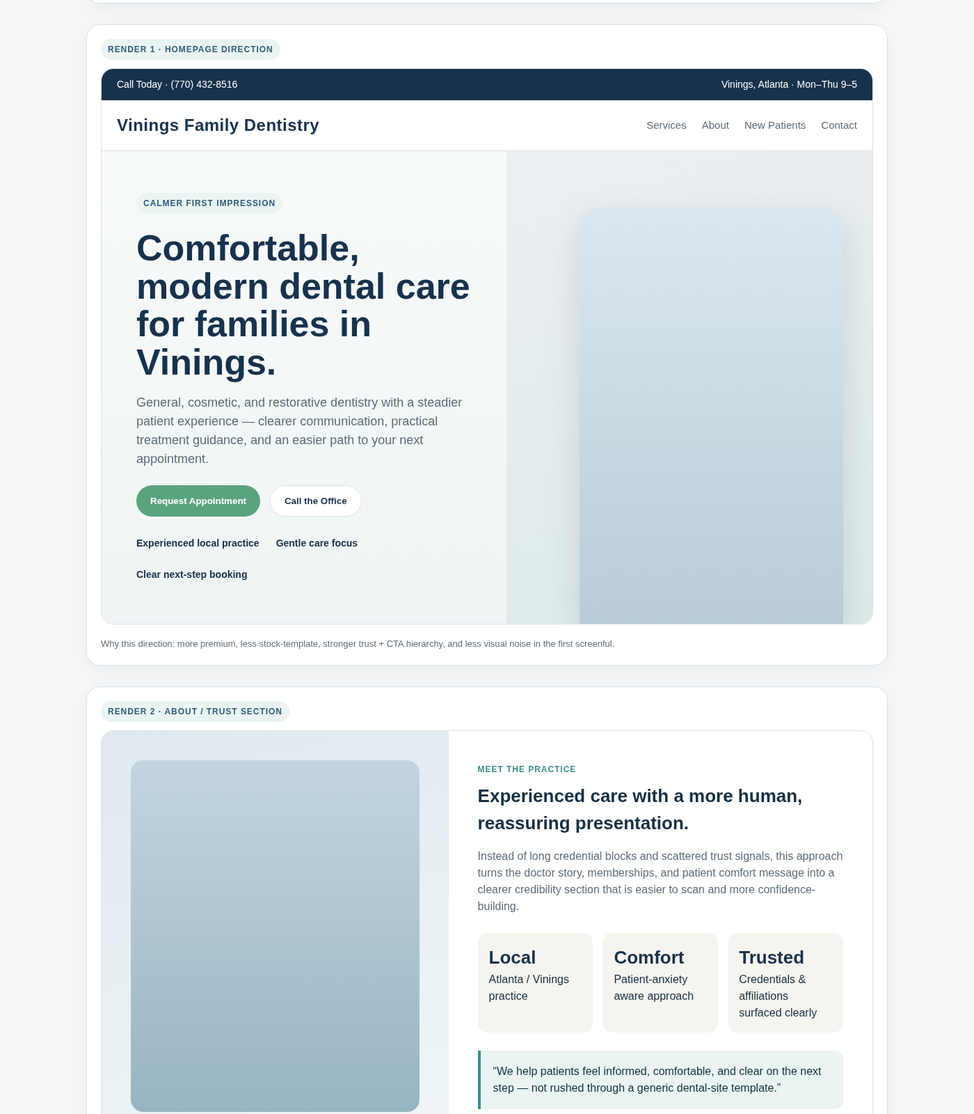
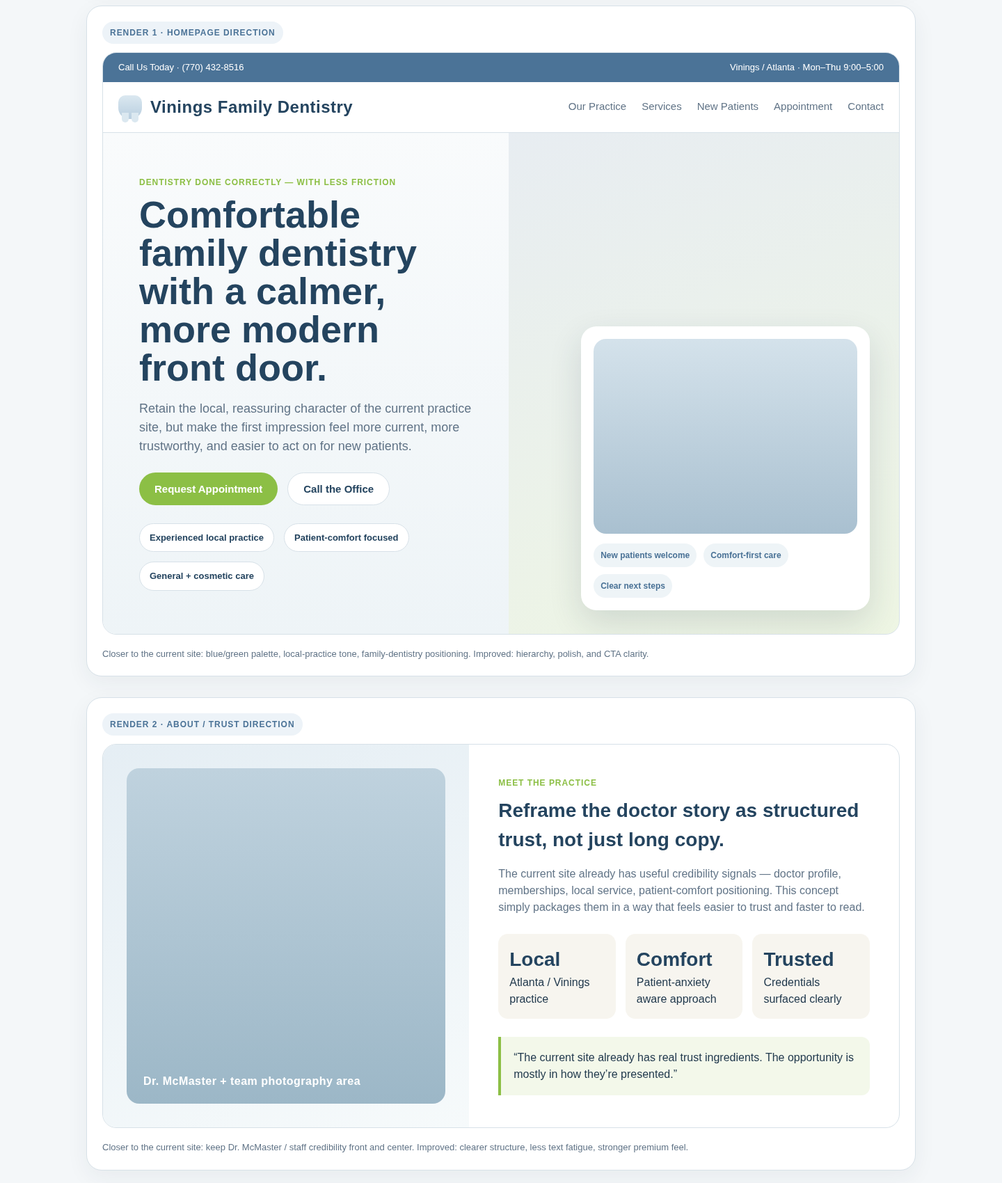
Refine Vinings concepts and add mini deck

Changed region(s): [[0.0921, 0.0, 0.9214, 1.0], [0.4607, 0.6562, 0.86, 1.0]]

diff --git a/prospect-captures/vinings-family-dentistry/recommendations-and-renders.html b/prospect-captures/vinings-family-dentistry/recommendations-and-renders.html
@@ -6,75 +6,90 @@
   <title>Vinings Family Dentistry — Suggested Updates</title>
   <style>
     :root {
-      --navy:#17324d;
-      --blue:#2f5d7c;
-      --teal:#3b8f8a;
-      --mint:#eaf4f2;
-      --sand:#f6f4ef;
-      --text:#163042;
-      --muted:#5d6c78;
-      --line:#d9e3e8;
-      --accent:#5aa37d;
+      --brand-navy:#24445f;
+      --brand-blue:#4b7397;
+      --brand-green:#8cbf45;
+      --brand-light:#eef4f7;
+      --brand-sand:#f7f5ef;
+      --text:#21394d;
+      --muted:#617487;
+      --line:#d7e1e8;
+      --white:#ffffff;
     }
     * { box-sizing:border-box; }
-    body { margin:0; font-family: Inter, Arial, sans-serif; color:var(--text); background:#f5f7f8; line-height:1.5; }
-    .wrap { max-width: 1200px; margin: 0 auto; padding: 40px 24px 80px; }
-    .intro { background:white; border:1px solid var(--line); border-radius:20px; padding:28px 32px; margin-bottom:28px; box-shadow:0 8px 30px rgba(0,0,0,.05); }
+    body { margin:0; font-family: Inter, Arial, sans-serif; color:var(--text); background:#f4f7f9; line-height:1.5; }
+    .wrap { max-width: 1240px; margin: 0 auto; padding: 40px 24px 80px; }
+    .intro, .render { background:var(--white); border:1px solid var(--line); border-radius:22px; box-shadow:0 10px 32px rgba(28,52,74,.06); }
+    .intro { padding:30px 34px; margin-bottom:28px; }
+    .render { padding:22px; margin:30px 0; }
     h1,h2,h3 { margin:0 0 12px; }
-    h1 { font-size:34px; }
-    h2 { font-size:26px; margin-top:10px; }
+    h1 { font-size:36px; color:var(--brand-navy); }
+    h2 { font-size:28px; color:var(--brand-navy); }
     p, li { color:var(--muted); }
-    .cards { display:grid; grid-template-columns: repeat(3, 1fr); gap:18px; margin-top:18px; }
-    .card { background:white; border:1px solid var(--line); border-radius:16px; padding:18px; }
-    .render { background:white; border:1px solid var(--line); border-radius:20px; padding:20px; margin:30px 0; box-shadow:0 8px 30px rgba(0,0,0,.05); }
-    .label { display:inline-block; font-size:12px; letter-spacing:.08em; text-transform:uppercase; color:var(--blue); font-weight:700; background:var(--mint); padding:6px 10px; border-radius:999px; margin-bottom:12px; }
-    .hero-mock { border:1px solid var(--line); border-radius:18px; overflow:hidden; background:white; }
-    .topbar { background:var(--navy); color:#fff; display:flex; justify-content:space-between; padding:12px 22px; font-size:14px; }
+    .pill { display:inline-block; font-size:12px; letter-spacing:.08em; text-transform:uppercase; color:var(--brand-blue); font-weight:800; background:#edf3f8; padding:7px 11px; border-radius:999px; margin-bottom:12px; }
+    .cards { display:grid; grid-template-columns:repeat(3,1fr); gap:18px; margin-top:18px; }
+    .card { background:#fbfcfd; border:1px solid var(--line); border-radius:16px; padding:18px; }
+    .hero-mock, .about-mock, .appointment-mock { border:1px solid var(--line); border-radius:20px; overflow:hidden; background:var(--white); }
+    .topbar { background:var(--brand-blue); color:#fff; display:flex; justify-content:space-between; padding:11px 22px; font-size:13px; }
     .navbar { display:flex; justify-content:space-between; align-items:center; padding:18px 22px; border-bottom:1px solid var(--line); }
-    .brand { font-weight:800; letter-spacing:.02em; font-size:24px; color:var(--navy); }
+    .brand { display:flex; align-items:center; gap:12px; font-weight:800; letter-spacing:.02em; font-size:24px; color:var(--brand-navy); }
+    .tooth { width:34px; height:34px; border-radius:10px 10px 16px 16px; background:linear-gradient(180deg,#dbe8f0,#b8cedf); position:relative; }
+    .tooth:before, .tooth:after { content:''; position:absolute; bottom:-5px; width:10px; height:14px; background:#dbe8f0; border-radius:0 0 8px 8px; }
+    .tooth:before { left:5px; }
+    .tooth:after { right:5px; }
     .nav { display:flex; gap:22px; color:var(--muted); font-size:15px; }
-    .hero { display:grid; grid-template-columns: 1.05fr .95fr; min-height:460px; }
-    .hero-copy { padding:60px 50px; background:linear-gradient(180deg,#f7fafb,#eef5f4); }
-    .hero-copy h2 { font-size:52px; line-height:1.05; color:var(--navy); margin-bottom:16px; }
+    .hero { display:grid; grid-template-columns: 1.02fr .98fr; min-height:470px; }
+    .hero-copy { padding:62px 52px; background:linear-gradient(180deg,#f9fbfc,#eef4f7); }
+    .hero-copy h2 { font-size:54px; line-height:1.02; margin-bottom:16px; }
     .hero-copy p { font-size:18px; max-width:560px; }
-    .cta-row { display:flex; gap:14px; margin-top:24px; }
-    .btn { padding:14px 20px; border-radius:999px; border:0; font-weight:700; }
-    .btn.primary { background:var(--accent); color:white; }
-    .btn.secondary { background:white; color:var(--navy); border:1px solid var(--line); }
-    .proof { display:flex; gap:24px; margin-top:28px; font-size:14px; color:var(--navy); font-weight:600; flex-wrap:wrap; }
-    .hero-art { position:relative; background:linear-gradient(160deg, rgba(23,50,77,.08), rgba(59,143,138,.18)); }
-    .portrait { position:absolute; right:42px; bottom:0; width:72%; height:88%; border-radius:22px 22px 0 0; background:linear-gradient(180deg,#dbe7ee,#b9ccd8); box-shadow:0 18px 50px rgba(0,0,0,.12); }
-    .about-mock { border:1px solid var(--line); border-radius:18px; background:white; overflow:hidden; }
-    .section-grid { display:grid; grid-template-columns: .9fr 1.1fr; }
-    .photo-block { min-height:440px; background:linear-gradient(160deg,#dfe9ef,#f0f6f7); position:relative; }
-    .photo-block:after { content:''; position:absolute; inset:42px; border-radius:18px; background:linear-gradient(180deg,#c3d5df,#98b4c2); }
+    .eyebrow { color:var(--brand-green); font-weight:800; text-transform:uppercase; letter-spacing:.08em; font-size:12px; margin-bottom:10px; }
+    .cta-row { display:flex; gap:14px; margin-top:24px; flex-wrap:wrap; }
+    .btn { padding:14px 22px; border-radius:999px; border:0; font-weight:800; font-size:15px; }
+    .btn.primary { background:var(--brand-green); color:#fff; }
+    .btn.secondary { background:#fff; color:var(--brand-navy); border:1px solid var(--line); }
+    .proof { display:flex; gap:14px; margin-top:26px; flex-wrap:wrap; }
+    .proof span { background:#fff; border:1px solid var(--line); color:var(--brand-navy); padding:10px 14px; border-radius:999px; font-size:13px; font-weight:700; }
+    .hero-art { position:relative; background:linear-gradient(160deg, rgba(75,115,151,.13), rgba(140,191,69,.15)); }
+    .hero-card { position:absolute; right:42px; bottom:34px; width:74%; background:#fff; border-radius:22px; padding:18px; box-shadow:0 18px 48px rgba(28,52,74,.14); }
+    .hero-photo { height:280px; border-radius:18px; background:linear-gradient(180deg,#d4e2eb,#a9c0d0); margin-bottom:14px; }
+    .hero-badges { display:flex; gap:10px; flex-wrap:wrap; }
+    .hero-badges span { font-size:12px; background:#eef4f7; color:var(--brand-blue); padding:8px 10px; border-radius:999px; font-weight:700; }
+    .section-grid, .appt-grid { display:grid; grid-template-columns: .92fr 1.08fr; }
+    .photo-block { min-height:460px; background:linear-gradient(160deg,#e5eef4,#f6fafb); position:relative; }
+    .photo-block:before { content:''; position:absolute; inset:34px; border-radius:18px; background:linear-gradient(180deg,#bfd2de,#9cb7c7); }
+    .photo-block:after { content:'Dr. McMaster + team photography area'; position:absolute; left:58px; bottom:54px; color:#fff; font-weight:700; letter-spacing:.03em; }
     .content-block { padding:46px 42px; }
-    .kicker { color:var(--teal); font-weight:800; letter-spacing:.08em; text-transform:uppercase; font-size:12px; }
     .stat-row { display:grid; grid-template-columns:repeat(3,1fr); gap:14px; margin:26px 0; }
-    .stat { background:var(--sand); border-radius:14px; padding:16px; }
-    .stat strong { display:block; color:var(--navy); font-size:26px; }
-    .quote { margin-top:18px; padding:18px; border-left:4px solid var(--teal); background:var(--mint); border-radius:0 12px 12px 0; color:var(--text); }
-    .appointment-mock { border:1px solid var(--line); border-radius:18px; overflow:hidden; background:white; }
-    .appt-grid { display:grid; grid-template-columns: .92fr 1.08fr; }
-    .appt-copy { background:var(--navy); color:white; padding:42px; }
+    .stat { background:var(--brand-sand); border-radius:14px; padding:16px; }
+    .stat strong { display:block; color:var(--brand-navy); font-size:28px; }
+    .quote { margin-top:18px; padding:18px; border-left:4px solid var(--brand-green); background:#f3f8ea; border-radius:0 12px 12px 0; color:var(--text); }
+    .appt-copy { background:var(--brand-navy); color:#fff; padding:42px; }
     .appt-copy p { color:rgba(255,255,255,.82); }
-    .check { margin:20px 0 0; padding:0; list-style:none; }
-    .check li { color:white; margin:10px 0; }
+    .check { list-style:none; margin:20px 0 0; padding:0; }
+    .check li { color:#fff; margin:10px 0; }
     .form { padding:30px; background:#fbfcfd; }
     .field { margin-bottom:14px; }
-    .field label { display:block; font-size:13px; color:var(--navy); font-weight:700; margin-bottom:6px; }
-    .field input, .field select, .field textarea { width:100%; padding:14px 14px; border:1px solid #cfd9df; border-radius:12px; background:white; font:inherit; }
+    .field label { display:block; font-size:13px; color:var(--brand-navy); font-weight:800; margin-bottom:6px; }
+    .field input, .field select, .field textarea { width:100%; padding:14px; border:1px solid #cfd9df; border-radius:12px; background:#fff; font:inherit; }
     .row { display:grid; grid-template-columns:1fr 1fr; gap:12px; }
     .small { font-size:12px; color:var(--muted); }
-    .mobile-frame { width:390px; border:10px solid #16212b; border-radius:34px; margin:0 auto; overflow:hidden; background:white; box-shadow:0 14px 40px rgba(0,0,0,.12); }
-    .mobile-top { background:var(--navy); color:white; padding:10px 16px; font-size:13px; text-align:center; }
-    .mobile-content { padding:22px 20px 26px; background:linear-gradient(180deg,#f7fafb,#eef5f4); }
-    .mobile-content h3 { font-size:32px; line-height:1.06; color:var(--navy); margin-bottom:10px; }
-    .mobile-card { background:white; border:1px solid var(--line); border-radius:16px; padding:16px; margin-top:16px; }
+    .mobile-frame { width:390px; border:10px solid #1d2a35; border-radius:34px; margin:0 auto; overflow:hidden; background:#fff; box-shadow:0 14px 40px rgba(0,0,0,.12); }
+    .mobile-top { background:var(--brand-blue); color:#fff; padding:10px 16px; font-size:13px; text-align:center; }
+    .mobile-content { padding:22px 20px 26px; background:linear-gradient(180deg,#f9fbfc,#eef4f7); }
+    .mobile-brand { display:flex; align-items:center; gap:10px; color:var(--brand-navy); font-weight:800; margin-bottom:16px; }
+    .mobile-content h3 { font-size:32px; line-height:1.05; color:var(--brand-navy); margin-bottom:10px; }
+    .mobile-card { background:#fff; border:1px solid var(--line); border-radius:16px; padding:16px; margin-top:16px; }
     .footer-note { margin-top:18px; font-size:13px; color:var(--muted); }
+    .deck { margin-top:34px; display:grid; gap:18px; }
+    .slide { background:#fff; border:1px solid var(--line); border-radius:20px; padding:26px 28px; box-shadow:0 10px 30px rgba(28,52,74,.05); }
+    .slide ul { margin:12px 0 0 18px; }
+    .slide-grid { display:grid; grid-template-columns:1.05fr .95fr; gap:22px; align-items:center; }
+    .thumb { border:1px solid var(--line); border-radius:16px; overflow:hidden; background:#fff; }
+    .thumb img { width:100%; display:block; }
     @media (max-width: 980px) {
-      .cards, .hero, .section-grid, .appt-grid, .row { grid-template-columns:1fr; }
+      .cards, .hero, .section-grid, .appt-grid, .row, .slide-grid { grid-template-columns:1fr; }
       .mobile-frame { width:100%; max-width:390px; }
+      .nav { display:none; }
     }
   </style>
 </head>
@@ -82,101 +97,168 @@
   <div class="wrap">
     <div class="intro">
       <h1>Vinings Family Dentistry — Suggested Updates</h1>
-      <p>These concepts translate the lead-analysis findings into a clearer visual direction: calmer presentation, stronger trust packaging, cleaner appointment flow, and less template-heavy structure.</p>
+      <p>These concepts stay closer to the site’s current blue/green dental-practice language, but tighten the hierarchy and give the practice a more credible, current, and conversion-friendly presentation.</p>
       <div class="cards">
-        <div class="card"><h3>1. Modernize the first impression</h3><p>Replace the dated hero with a calmer, more reassuring above-the-fold section focused on trust, convenience, and clear next steps.</p></div>
-        <div class="card"><h3>2. Repackage credibility</h3><p>Turn credentials, doctor story, and patient comfort messaging into a tighter trust sequence instead of long undifferentiated text blocks.</p></div>
-        <div class="card"><h3>3. Reduce conversion friction</h3><p>Make appointment booking feel simpler, more local, and more confidence-building across desktop and mobile.</p></div>
+        <div class="card"><h3>1. Keep the local-practice feel</h3><p>Preserve the approachable, neighborhood-dentistry tone while stripping away the stock-template feel.</p></div>
+        <div class="card"><h3>2. Make trust easier to absorb</h3><p>Present credentials, comfort messaging, and patient reassurance in a more visual, skimmable way.</p></div>
+        <div class="card"><h3>3. Fix the important path</h3><p>Make appointment booking and contact feel simpler, cleaner, and more confidence-building.</p></div>
       </div>
     </div>
 
     <div class="render">
-      <div class="label">Render 1 · Homepage direction</div>
+      <div class="pill">Render 1 · Homepage direction</div>
       <div class="hero-mock">
-        <div class="topbar"><div>Call Today · (770) 432-8516</div><div>Vinings, Atlanta · Mon–Thu 9–5</div></div>
-        <div class="navbar"><div class="brand">Vinings Family Dentistry</div><div class="nav"><span>Services</span><span>About</span><span>New Patients</span><span>Contact</span></div></div>
+        <div class="topbar"><div>Call Us Today · (770) 432-8516</div><div>Vinings / Atlanta · Mon–Thu 9:00–5:00</div></div>
+        <div class="navbar"><div class="brand"><div class="tooth"></div><span>Vinings Family Dentistry</span></div><div class="nav"><span>Our Practice</span><span>Services</span><span>New Patients</span><span>Appointment</span><span>Contact</span></div></div>
         <div class="hero">
           <div class="hero-copy">
-            <div class="label">Calmer first impression</div>
-            <h2>Comfortable, modern dental care for families in Vinings.</h2>
-            <p>General, cosmetic, and restorative dentistry with a steadier patient experience — clearer communication, practical treatment guidance, and an easier path to your next appointment.</p>
+            <div class="eyebrow">Dentistry done correctly — with less friction</div>
+            <h2>Comfortable family dentistry with a calmer, more modern front door.</h2>
+            <p>Retain the local, reassuring character of the current practice site, but make the first impression feel more current, more trustworthy, and easier to act on for new patients.</p>
             <div class="cta-row"><button class="btn primary">Request Appointment</button><button class="btn secondary">Call the Office</button></div>
-            <div class="proof"><span>Experienced local practice</span><span>Gentle care focus</span><span>Clear next-step booking</span></div>
+            <div class="proof"><span>Experienced local practice</span><span>Patient-comfort focused</span><span>General + cosmetic care</span></div>
           </div>
-          <div class="hero-art"><div class="portrait"></div></div>
+          <div class="hero-art">
+            <div class="hero-card">
+              <div class="hero-photo"></div>
+              <div class="hero-badges"><span>New patients welcome</span><span>Comfort-first care</span><span>Clear next steps</span></div>
+            </div>
+          </div>
         </div>
       </div>
-      <div class="footer-note">Why this direction: more premium, less stock-template, stronger trust + CTA hierarchy, and less visual noise in the first screenful.</div>
+      <div class="footer-note">Closer to the current site: blue/green palette, local-practice tone, family-dentistry positioning. Improved: hierarchy, polish, and CTA clarity.</div>
     </div>
 
     <div class="render">
-      <div class="label">Render 2 · About / trust section</div>
+      <div class="pill">Render 2 · About / trust direction</div>
       <div class="about-mock">
         <div class="section-grid">
           <div class="photo-block"></div>
           <div class="content-block">
-            <div class="kicker">Meet the practice</div>
-            <h2>Experienced care with a more human, reassuring presentation.</h2>
-            <p>Instead of long credential blocks and scattered trust signals, this approach turns the doctor story, memberships, and patient comfort message into a clearer credibility section that is easier to scan and more confidence-building.</p>
+            <div class="eyebrow">Meet the practice</div>
+            <h2>Reframe the doctor story as structured trust, not just long copy.</h2>
+            <p>The current site already has useful credibility signals — doctor profile, memberships, local service, patient-comfort positioning. This concept simply packages them in a way that feels easier to trust and faster to read.</p>
             <div class="stat-row">
               <div class="stat"><strong>Local</strong><span>Atlanta / Vinings practice</span></div>
               <div class="stat"><strong>Comfort</strong><span>Patient-anxiety aware approach</span></div>
-              <div class="stat"><strong>Trusted</strong><span>Credentials & affiliations surfaced clearly</span></div>
+              <div class="stat"><strong>Trusted</strong><span>Credentials surfaced clearly</span></div>
             </div>
-            <div class="quote">“We help patients feel informed, comfortable, and clear on the next step — not rushed through a generic dental-site template.”</div>
+            <div class="quote">“The current site already has real trust ingredients. The opportunity is mostly in how they’re presented.”</div>
           </div>
         </div>
       </div>
-      <div class="footer-note">Why this direction: the current site has trust ingredients, but they are packaged weakly. This makes credibility feel more deliberate and more modern.</div>
+      <div class="footer-note">Closer to the current site: keep Dr. McMaster / staff credibility front and center. Improved: clearer structure, less text fatigue, stronger premium feel.</div>
     </div>
 
     <div class="render">
-      <div class="label">Render 3 · Appointment flow</div>
+      <div class="pill">Render 3 · Appointment flow</div>
       <div class="appointment-mock">
         <div class="appt-grid">
           <div class="appt-copy">
-            <h2 style="color:white;">Request an appointment without the friction.</h2>
-            <p>One of the biggest opportunities is making the conversion path feel simpler, more trustworthy, and less error-prone than the current appointment experience.</p>
+            <h2 style="color:white;">Make requesting an appointment feel simpler and more trustworthy.</h2>
+            <p>The biggest conversion opportunity is not flashy redesign — it’s reducing friction, clarifying next steps, and making the request flow feel more intentionally cared for.</p>
             <ul class="check">
               <li>✓ Clear response expectations</li>
-              <li>✓ Fewer required fields</li>
-              <li>✓ Better reassurance for new patients</li>
-              <li>✓ More obvious call / request options</li>
+              <li>✓ Shorter, cleaner form</li>
+              <li>✓ Stronger click-to-call support</li>
+              <li>✓ Less error-prone presentation</li>
             </ul>
           </div>
           <div class="form">
             <div class="row">
-              <div class="field"><label>First name</label><input value=""></div>
-              <div class="field"><label>Last name</label><input value=""></div>
+              <div class="field"><label>First name</label><input></div>
+              <div class="field"><label>Last name</label><input></div>
             </div>
             <div class="row">
-              <div class="field"><label>Phone</label><input value=""></div>
-              <div class="field"><label>Email</label><input value=""></div>
+              <div class="field"><label>Phone</label><input></div>
+              <div class="field"><label>Email</label><input></div>
             </div>
-            <div class="field"><label>What do you need help with?</label><select><option>New patient appointment</option></select></div>
+            <div class="field"><label>I’m contacting you about</label><select><option>New patient appointment</option></select></div>
             <div class="field"><label>Preferred day / time</label><textarea rows="4"></textarea></div>
             <button class="btn primary" style="width:100%;">Send Appointment Request</button>
-            <p class="small">A scheduling coordinator will follow up to confirm availability. If you prefer, call the office directly at (770) 432-8516.</p>
+            <p class="small">A scheduling coordinator will follow up to confirm availability. Prefer to call? (770) 432-8516</p>
           </div>
         </div>
       </div>
-      <div class="footer-note">Why this direction: the current appointment path appears weaker than it should be for such an important page. This version emphasizes trust, clarity, and lower friction.</div>
+      <div class="footer-note">Closer to the current site: preserve appointment-request behavior. Improved: cleaner form structure, stronger reassurance, less template friction.</div>
     </div>
 
     <div class="render">
-      <div class="label">Render 4 · Mobile homepage direction</div>
+      <div class="pill">Render 4 · Mobile homepage direction</div>
       <div class="mobile-frame">
         <div class="mobile-top">Call Us Today · (770) 432-8516</div>
         <div class="mobile-content">
-          <div class="label">Mobile-first simplification</div>
-          <h3>Modern family dentistry without the clutter.</h3>
-          <p>Keep the first screen focused on reassurance, trust, and a clear next action.</p>
+          <div class="mobile-brand"><div class="tooth"></div><span>Vinings Family Dentistry</span></div>
+          <div class="eyebrow">Mobile-first simplification</div>
+          <h3>Keep the reassurance. Lose the clutter.</h3>
+          <p>Mobile is where the current template feels most compressed. This keeps the friendly dental-practice tone but gives the first screen cleaner spacing and stronger CTA focus.</p>
           <div class="cta-row" style="flex-direction:column;"><button class="btn primary">Request Appointment</button><button class="btn secondary">Call the Office</button></div>
-          <div class="mobile-card"><strong style="color:var(--navy); display:block; margin-bottom:6px;">Why this feels better</strong><span style="color:var(--muted);">Less stacked copy, clearer spacing, stronger CTA priority, and a calmer overall feel.</span></div>
-          <div class="mobile-card"><strong style="color:var(--navy); display:block; margin-bottom:6px;">What to keep</strong><span style="color:var(--muted);">Patient comfort messaging, local trust, and straightforward appointment intent.</span></div>
+          <div class="mobile-card"><strong style="color:var(--brand-navy); display:block; margin-bottom:6px;">What improves</strong><span style="color:var(--muted);">Less stacked copy, cleaner spacing, stronger CTA priority, and a steadier first impression.</span></div>
+          <div class="mobile-card"><strong style="color:var(--brand-navy); display:block; margin-bottom:6px;">What stays recognizable</strong><span style="color:var(--muted);">Blue/green palette, local practice voice, and straightforward appointment intent.</span></div>
         </div>
       </div>
-      <div class="footer-note">Why this direction: mobile is where the current template compression becomes most obvious. This concept trims the experience down to what matters first.</div>
+      <div class="footer-note">Closer to the current site: familiar brand tone. Improved: mobile clarity, cleaner hierarchy, and less visual compression.</div>
+    </div>
+
+    <div class="intro deck">
+      <h2>Mini Deck</h2>
+      <div class="slide">
+        <div class="pill">Slide 1 · Core diagnosis</div>
+        <div class="slide-grid">
+          <div>
+            <h3>The practice feels more credible than the website.</h3>
+            <ul>
+              <li>Current site feels older and more template-driven than the business likely is.</li>
+              <li>The trust ingredients are already there — they’re just weakly packaged.</li>
+              <li>The biggest practical opportunities are homepage clarity, about-page trust framing, and appointment flow cleanup.</li>
+            </ul>
+          </div>
+          <div class="thumb"><img src="renders/render-01-homepage-direction.png" alt="Homepage direction"></div>
+        </div>
+      </div>
+      <div class="slide">
+        <div class="pill">Slide 2 · What to update first</div>
+        <div class="slide-grid">
+          <div>
+            <h3>Suggested first-pass scope</h3>
+            <ul>
+              <li>Refresh homepage first impression and CTA hierarchy</li>
+              <li>Rebuild the about/practice section around structured trust</li>
+              <li>Simplify the appointment flow and remove friction/error risk</li>
+              <li>Shorten and clarify the mobile experience</li>
+            </ul>
+          </div>
+          <div class="thumb"><img src="renders/render-02-about-trust-direction.png" alt="About trust direction"></div>
+        </div>
+      </div>
+      <div class="slide">
+        <div class="pill">Slide 3 · Why this matters commercially</div>
+        <div class="slide-grid">
+          <div>
+            <h3>This is mostly a trust + conversion problem, not a content problem.</h3>
+            <ul>
+              <li>The practice already has services, credibility, and local identity.</li>
+              <li>The site’s design language makes all of that feel less current than it should.</li>
+              <li>A focused refresh could improve first impression without needing a giant rebuild.</li>
+            </ul>
+          </div>
+          <div class="thumb"><img src="renders/render-03-appointment-direction.png" alt="Appointment direction"></div>
+        </div>
+      </div>
+      <div class="slide">
+        <div class="pill">Slide 4 · Mobile angle</div>
+        <div class="slide-grid">
+          <div>
+            <h3>Mobile makes the template limitations more obvious.</h3>
+            <ul>
+              <li>The current site compresses poorly on smaller screens.</li>
+              <li>First-screen clarity and CTA priority matter even more on mobile.</li>
+              <li>A lighter mobile hierarchy is an easy credibility win.</li>
+            </ul>
+          </div>
+          <div class="thumb"><img src="renders/render-04-mobile-direction.png" alt="Mobile direction"></div>
+        </div>
+      </div>
     </div>
   </div>
 </body>

diff --git a/prospect-captures/vinings-family-dentistry/mini-deck.md b/prospect-captures/vinings-family-dentistry/mini-deck.md
@@ -1,0 +1,20 @@
+# Vinings Family Dentistry — Mini Deck
+
+A short, client-facing summary of the suggested update direction.
+
+## Slide 1 — Core diagnosis
+![Slide 1 core diagnosis](deck/slide-01-core-diagnosis.png)
+
+## Slide 2 — What to update first
+![Slide 2 what to update first](deck/slide-02-what-to-update-first.png)
+
+## Slide 3 — Why this matters commercially
+![Slide 3 commercial case](deck/slide-03-commercial-case.png)
+
+## Slide 4 — Mobile angle
+![Slide 4 mobile angle](deck/slide-04-mobile-angle.png)
+
+## Related files
+- Concept board: `recommendations-and-renders.html`
+- Recommendation brief: `suggested-updates.md`
+- Render images: `renders/`
